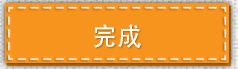
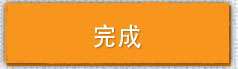
redefine the bookmarklet color and pic

Changed region(s): [[0.0, 0.0, 1.0, 0.9565], [0.3824, 0.3478, 0.6176, 0.6957], [0.9412, 0.8696, 1.0, 0.9565]]

diff --git a/public/js/bookmarklet.js b/public/js/bookmarklet.js
@@ -75,13 +75,13 @@ BM.createPopup = function(){
       'background-color: #F2F2F2;',
     '}',
     '.blm-bm-popup .blm-bm-head .second{',
-      'background-color: #FFDC8B;',
+      'background-color: #F66;',
     '}',
     '.blm-bm-popup .blm-bm-head .third{',
-      'background-color: #FF988B;',
+      'background-color: yellow;',
     '}',
     '.blm-bm-popup .blm-bm-head .fourth{',
-      'background-color: #287C90;',
+      'background-color: #65B8FD;',
     '}',
     '.blm-bm-popup .blm-bm-body{',
       'padding: 20px 0;',
@@ -100,7 +100,7 @@ BM.createPopup = function(){
       'vertical-align: middle;',
       'font-size: 20px;',
       'padding-left:5px;',
-      'font-weight: bold;',
+      'color: #65B8FD;',
     '}',
     '.blm-bm-popup .blm-bm-body-middle{',
       'width: 35%;',
